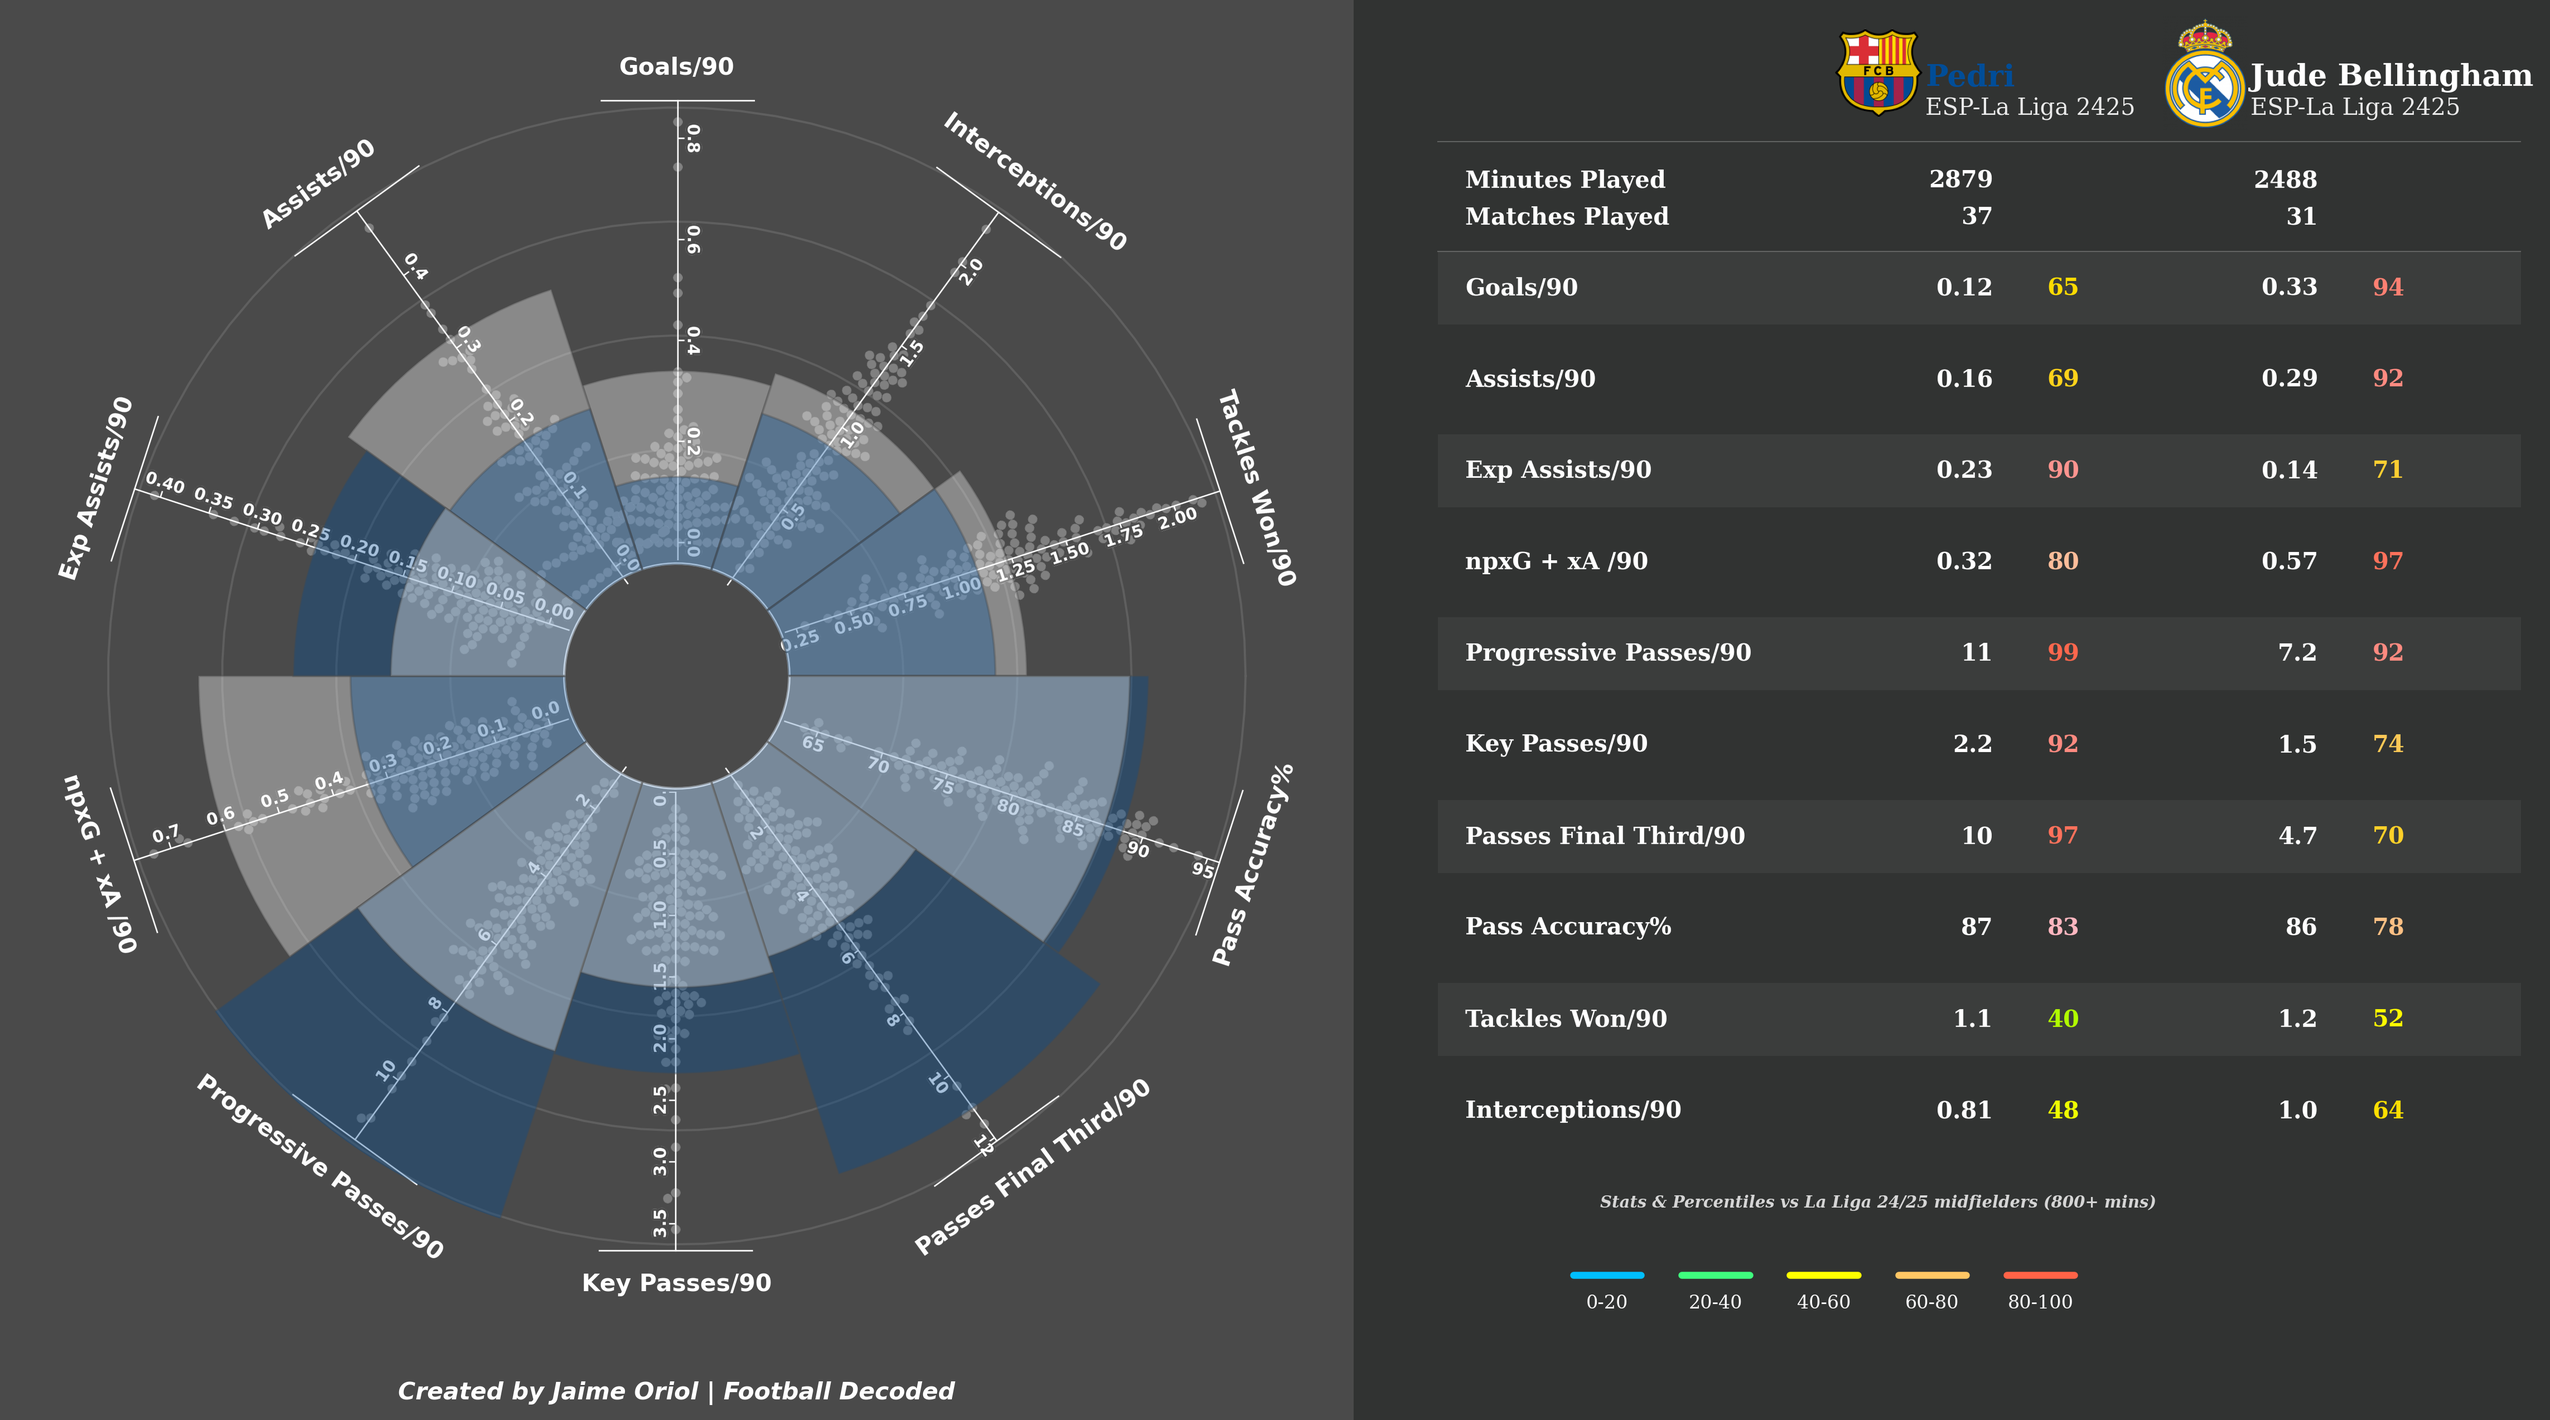
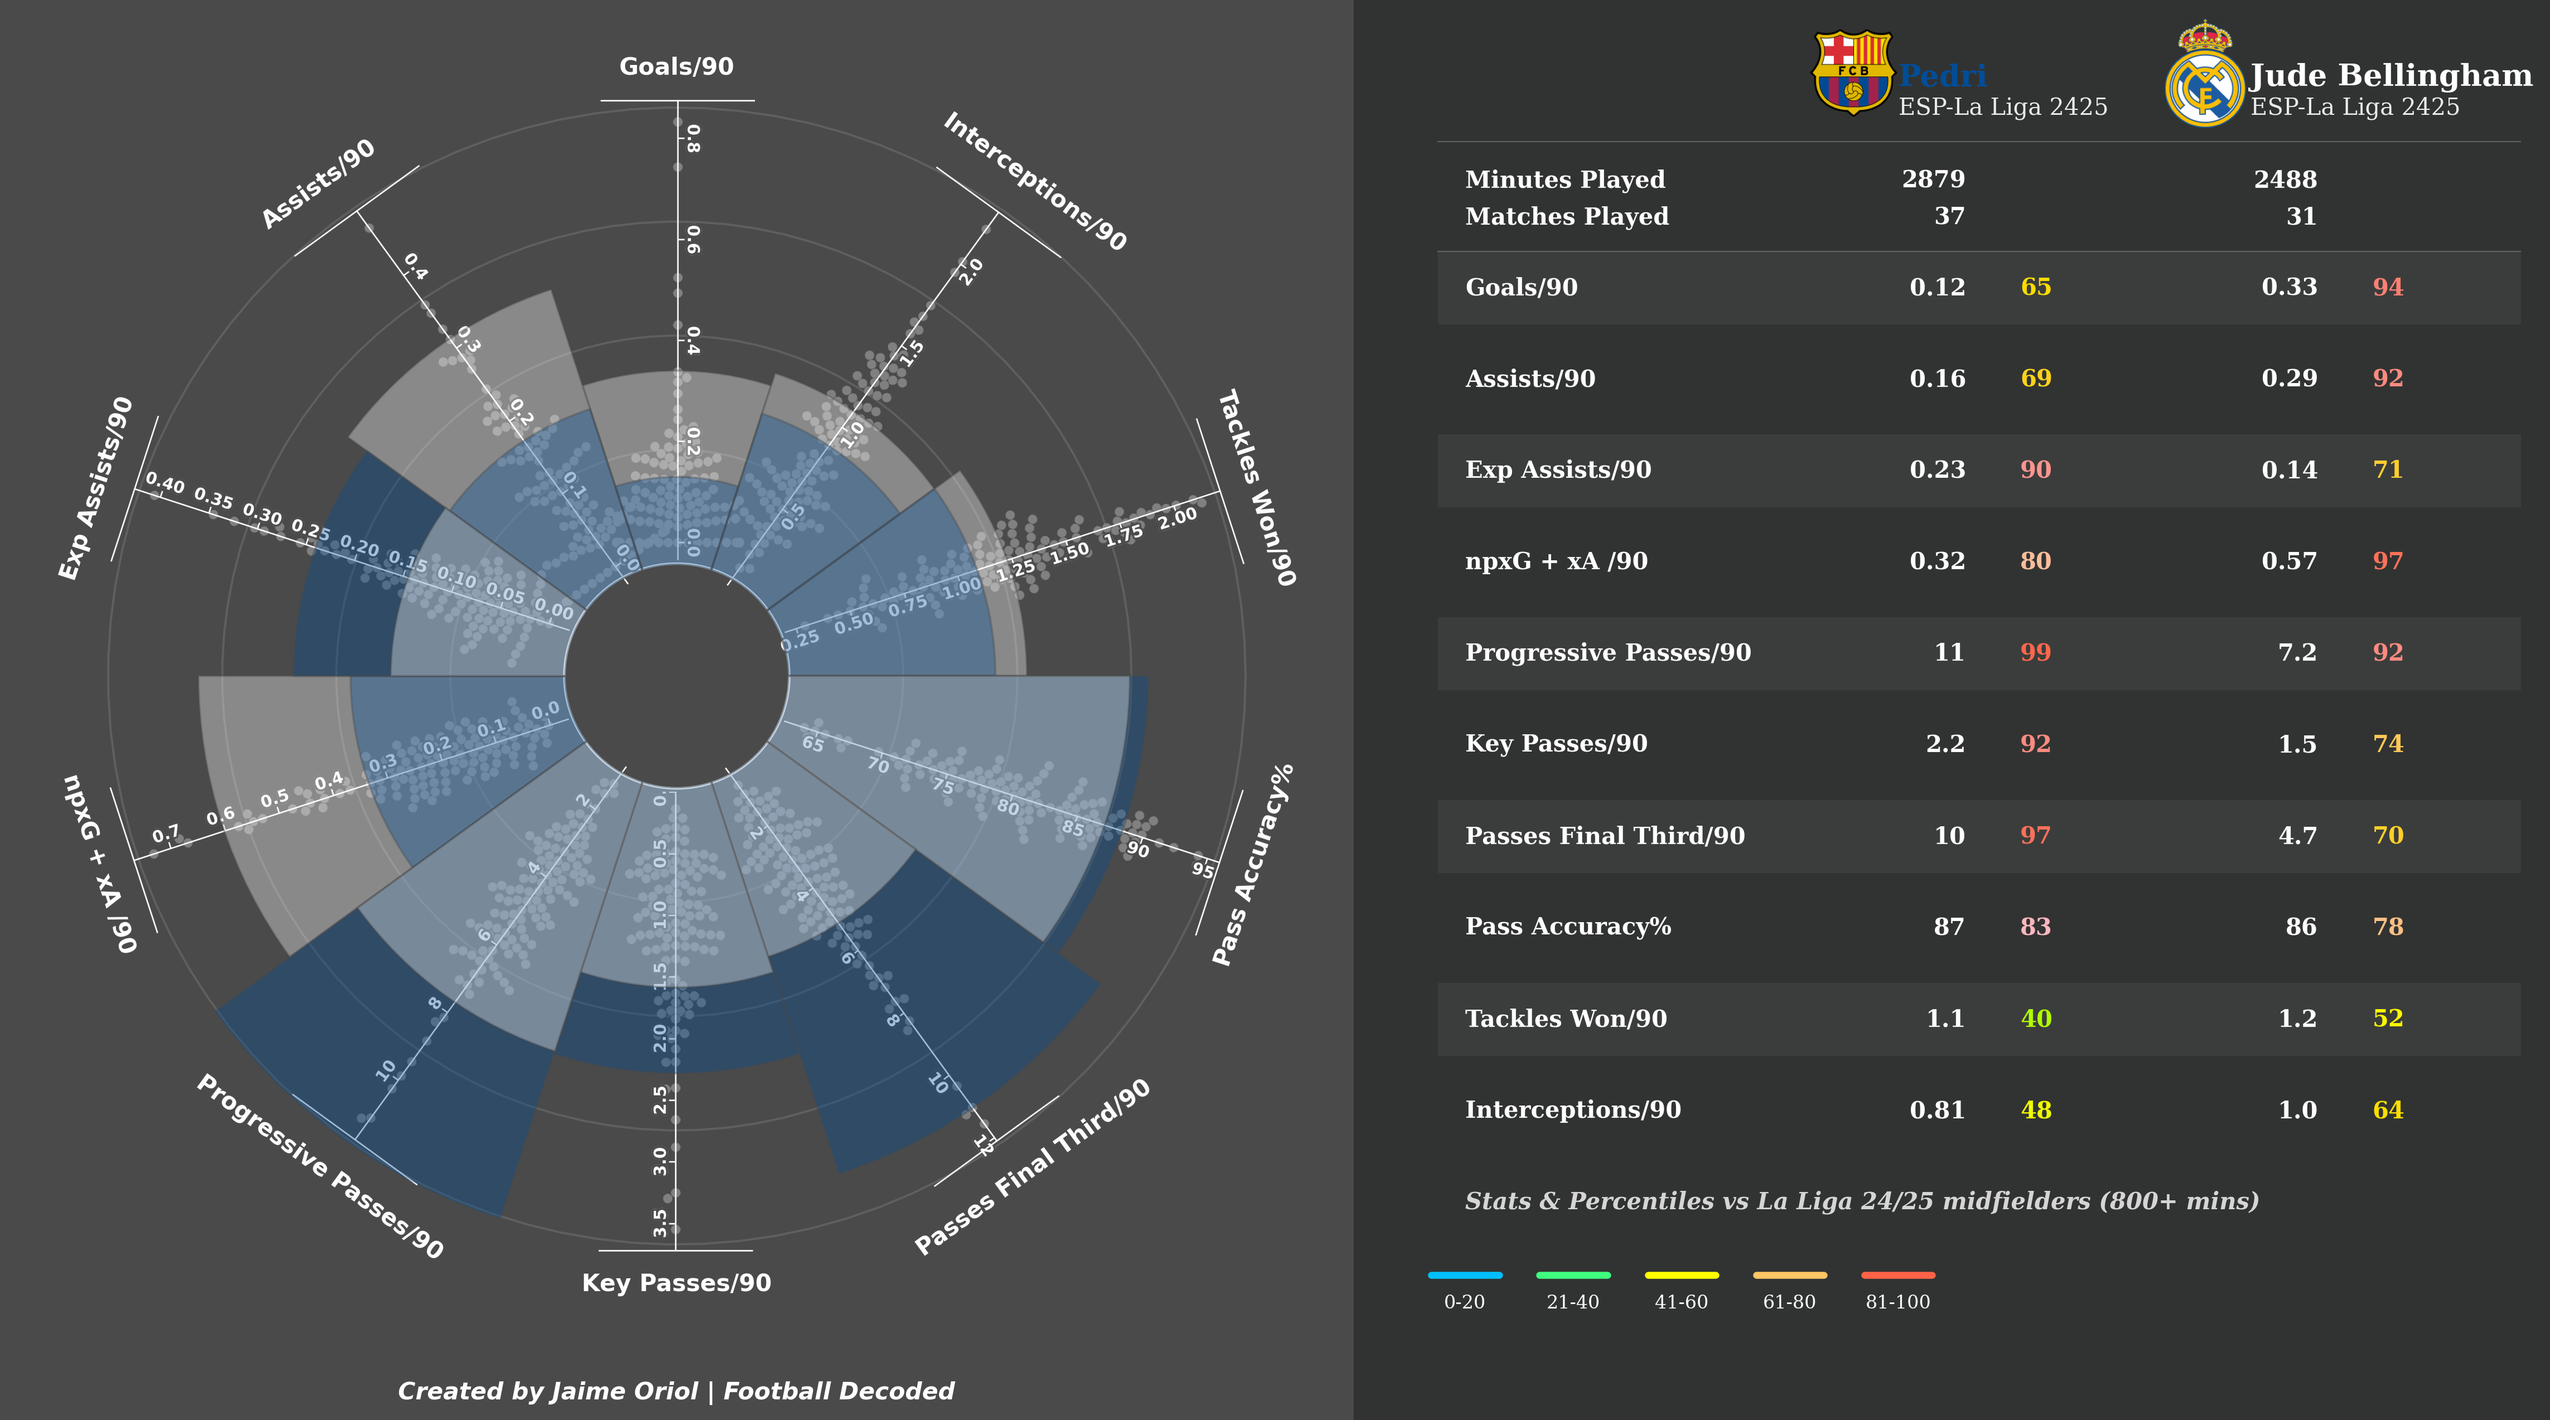
visuals

diff --git a/viz/stats_table.py b/viz/stats_table.py
@@ -9,7 +9,6 @@ from matplotlib.colors import Normalize
 from PIL import Image
 import os
 
-# Color de fondo unificado con pass_network
 BACKGROUND_COLOR = '#313332'
 
 def create_stats_table(df_data, player_1_id, metrics, metric_titles, 
@@ -18,72 +17,43 @@ def create_stats_table(df_data, player_1_id, metrics, metric_titles,
                       team_logos=None, footer_text='Percentiles vs dataset'):
     """
     Crea tabla de estadísticas con estilo visual unificado con pass_network.
-    
-    Args:
-        df_data: DataFrame con los datos de todos los jugadores
-        player_1_id: ID único del primer jugador
-        metrics: Lista de métricas a mostrar
-        metric_titles: Lista de títulos para las métricas
-        player_2_id: ID del segundo jugador (opcional)
-        team_colors: Lista de colores para cada jugador
-        save_path: Ruta donde guardar la imagen
-        show_plot: Si mostrar el gráfico o no
-        team_logos: Diccionario con rutas a logos de equipos
-        footer_text: Texto personalizable para el footer
-    
-    Returns:
-        save_path: Ruta donde se guardó la imagen
     """
     
-    # Colores por defecto si no se especifican
     if team_colors is None:
         team_colors = ['#FF6B6B', '#4ECDC4']
     
-    # Sistema de colores unificado con pass_network
     node_cmap = mcolors.LinearSegmentedColormap.from_list("", [
         'deepskyblue', 'cyan', 'lawngreen', 'yellow', 
         'gold', 'lightpink', 'tomato'
     ])
     percentile_norm = Normalize(vmin=0, vmax=100)
     
-    # Extraer datos de los jugadores
     p1 = df_data[df_data['unique_player_id'] == player_1_id].iloc[0]
     p2 = None
     if player_2_id is not None:
         p2 = df_data[df_data['unique_player_id'] == player_2_id].iloc[0]
     
-    # Configuración de la figura
-    fig_width = 7.5 if p2 is not None else 6.5
-    fig = plt.figure(figsize=(fig_width, 8.5), facecolor=BACKGROUND_COLOR)  # Altura aumentada para leyenda
+    # Layout unificado - siempre usar dimensiones de 2 jugadores
+    fig = plt.figure(figsize=(7.5, 8.5), facecolor=BACKGROUND_COLOR)
     ax = fig.add_subplot(111)
     ax.set_facecolor(BACKGROUND_COLOR)
     ax.set_xlim(0, 8.5)
-    ax.set_ylim(0, 15)  # Límite aumentado para leyenda
+    ax.set_ylim(0, 15)
     ax.axis('off')
     
-    # === SECCIÓN HEADER ===
+    # Posiciones fijas para layout unificado
     y_start = 14.5
+    logo1_x = 3.65  # Movido a la izquierda
+    text1_x = 3.9   # Movido a la izquierda
+    p1_value_x = 4.4  # Movido a la izquierda
+    p1_pct_x = 4.8    # Movido a la izquierda
     
-    # Posiciones X ajustadas para alinear con las columnas de valores
-    if p2 is not None:
-        # Comparación
-        logo1_x = 3.85
-        text1_x = 4.1
-        p1_value_x = 4.6
-        p1_pct_x = 5.0
-        
-        logo2_x = 6.45
-        text2_x = 6.5
-        p2_value_x = 7.0
-        p2_pct_x = 7.4
-    else:
-        # Individual
-        logo1_x = 4.35
-        text1_x = 4.0
-        p1_value_x = 4.6
-        p1_pct_x = 5.0
+    logo2_x = 6.45
+    text2_x = 6.5
+    p2_value_x = 7.0
+    p2_pct_x = 7.4
     
-    # Jugador 1 - Logo
+    # Header Jugador 1
     if team_logos and p1['team'] in team_logos:
         try:
             logo = Image.open(team_logos[p1['team']])
@@ -93,15 +63,13 @@ def create_stats_table(df_data, player_1_id, metrics, metric_titles,
         except:
             pass
     
-    # Nombre y liga
     ax.text(text1_x, y_start, p1['player_name'], 
             fontweight='bold', fontsize=13, color=team_colors[0], ha='left', va='center', family='serif')
     ax.text(text1_x, y_start - 0.4, f"{p1['league']} {p1['season']}", 
             fontsize=10, color='white', alpha=0.9, ha='left', weight='normal', family='serif')
     
-    # Jugador 2 (si existe)
+    # Header Jugador 2 si existe
     if p2 is not None:
-        # Logo del Jugador 2
         if team_logos and p2['team'] in team_logos:
             try:
                 logo = Image.open(team_logos[p2['team']])
@@ -118,14 +86,11 @@ def create_stats_table(df_data, player_1_id, metrics, metric_titles,
     
     # Línea separadora header
     y_line = y_start - 0.7
-    line_end = 8.5 if p2 is not None else 6.5
-    ax.plot([0.5, line_end], [y_line, y_line], 
-            color='grey', linewidth=0.5, alpha=0.6)
+    ax.plot([0.5, 8.5], [y_line, y_line], color='grey', linewidth=0.5, alpha=0.6)
     
-    # === SECCIÓN CONTEXTO (Minutos y Partidos) ===
+    # Contexto (Minutos y Partidos)
     y_context = y_start - 1.2
     
-    # Minutes
     ax.text(0.7, y_context, "Minutes Played", fontsize=10, color='white', weight='bold', family='serif')
     min1 = int(p1.get('minutes_played', 0))
     ax.text(p1_value_x, y_context, f"{min1}", fontsize=10, color='white', ha='right', weight='bold', family='serif')
@@ -133,7 +98,6 @@ def create_stats_table(df_data, player_1_id, metrics, metric_titles,
         min2 = int(p2.get('minutes_played', 0))
         ax.text(p2_value_x, y_context, f"{min2}", fontsize=10, color='white', ha='right', weight='bold', family='serif')
     
-    # Matches
     y_context -= 0.4
     ax.text(0.7, y_context, "Matches Played", fontsize=10, color='white', weight='bold', family='serif')
     mat1 = int(p1.get('matches_played', 0))
@@ -142,41 +106,31 @@ def create_stats_table(df_data, player_1_id, metrics, metric_titles,
         mat2 = int(p2.get('matches_played', 0))
         ax.text(p2_value_x, y_context, f"{mat2}", fontsize=10, color='white', ha='right', weight='bold', family='serif')
     
-    # Línea separadora contexto
     y_line = y_context - 0.3
-    ax.plot([0.5, line_end], [y_line, y_line], 
-            color='grey', linewidth=0.5, alpha=0.6)
+    ax.plot([0.5, 8.5], [y_line, y_line], color='grey', linewidth=0.5, alpha=0.6)
     
-    # === SECCIÓN MÉTRICAS ===
+    # Métricas
     y_metrics = y_context - 0.7
     row_height = 1.0
     
-    # Iterar sobre cada métrica
     for idx, (metric, title) in enumerate(zip(metrics, metric_titles)):
         y_pos = y_metrics - (idx * row_height)
         
-        # Fondo alternado para mejor legibilidad
         if idx % 2 == 0:
-            rect_width = 8.5 if p2 is not None else 6.5
-            rect = Rectangle((0.5, y_pos - 0.4), 
-                           rect_width, 0.8, 
-                           facecolor='white', alpha=0.05)
+            rect = Rectangle((0.5, y_pos - 0.4), 8.0, 0.8, facecolor='white', alpha=0.05)
             ax.add_patch(rect)
         
-        # Título de la métrica
         clean_title = title.replace('\n', ' ')
         ax.text(0.7, y_pos, clean_title, fontsize=10, color='white', weight='bold', va='center', family='serif')
         
-        # === JUGADOR 1: Valor y Percentil ===
+        # Jugador 1
         val_1 = p1.get(metric, 0)
         pct_col = f"{metric}_pct"
         pct_1 = p1.get(pct_col, 0)
         
-        # Manejar valores NaN
         if pd.isna(pct_1):
             pct_1 = 0
         
-        # Formatear valor según su magnitud
         if pd.isna(val_1):
             val_str_1 = "0.0"
         elif 0 < val_1 < 1:
@@ -186,25 +140,21 @@ def create_stats_table(df_data, player_1_id, metrics, metric_titles,
         else:
             val_str_1 = f"{int(val_1)}"
         
-        # Color del percentil usando la escala xT
         pct_color_1 = node_cmap(percentile_norm(pct_1))
         
-        # Mostrar valor y percentil
         ax.text(p1_value_x, y_pos, val_str_1, fontsize=10, color='white', ha='right', 
                 weight='bold', va='center', family='serif')
         ax.text(p1_pct_x, y_pos, f"{int(pct_1)}", 
                 fontsize=10, color=pct_color_1, ha='left', fontweight='bold', va='center', family='serif')
         
-        # === JUGADOR 2: Valor y Percentil (si existe) ===
+        # Jugador 2 si existe
         if p2 is not None:
             val_2 = p2.get(metric, 0)
             pct_2 = p2.get(pct_col, 0)
             
-            # Manejar valores NaN
             if pd.isna(pct_2):
                 pct_2 = 0
             
-            # Formatear valor según su magnitud
             if pd.isna(val_2):
                 val_str_2 = "0.0"
             elif 0 < val_2 < 1:
@@ -214,59 +164,40 @@ def create_stats_table(df_data, player_1_id, metrics, metric_titles,
             else:
                 val_str_2 = f"{int(val_2)}"
             
-            # Color del percentil usando la escala xT
             pct_color_2 = node_cmap(percentile_norm(pct_2))
             
-            # Mostrar valor y percentil
             ax.text(p2_value_x, y_pos, val_str_2, fontsize=10, color='white', ha='right', 
                     weight='bold', va='center', family='serif')
             ax.text(p2_pct_x, y_pos, f"{int(pct_2)}", 
                     fontsize=10, color=pct_color_2, ha='left', fontweight='bold', va='center', family='serif')
     
-    # === FOOTER ===
+    # Footer alineado con títulos de métricas
     footer_y = y_metrics - (len(metrics) * row_height)
-    footer_x = 3.75 if p2 is not None else 3.25
     
-    # Fondo para el footer si corresponde
     if len(metrics) % 2 == 1:
-        rect_width = 8.5 if p2 is not None else 6.5
-        rect = Rectangle((0.5, footer_y - 0.4), 
-                       rect_width, 0.8, 
-                       facecolor='white', alpha=0.05)
+        rect = Rectangle((0.5, footer_y - 0.4), 8.0, 0.8, facecolor='white', alpha=0.05)
         ax.add_patch(rect)
     
-    # Footer centrado en la tabla
-    ax.text(footer_x, footer_y, footer_text, 
-            fontsize=10, color='white', alpha=0.8, ha='center', style='italic', weight='bold', va='center', family='serif')
+    ax.text(0.7, footer_y, footer_text, 
+            fontsize=10, color='white', alpha=0.8, ha='left', style='italic', weight='bold', va='center', family='serif')
     
-    # === LEYENDA DE PERCENTILES ===
+    # Leyenda de percentiles alineada con títulos
     legend_y = footer_y - 0.8
-    legend_x_center = footer_x
     
-    # Definir intervalos y sus colores
     intervals = [(0, 20), (21, 40), (41, 60), (61, 80), (81, 100)]
-    interval_colors = [node_cmap(percentile_norm(i*25)) for i in range(5)]  # 0, 25, 50, 75, 100
+    interval_colors = [node_cmap(percentile_norm(i*25)) for i in range(5)]
     
-    # Espaciado entre elementos de leyenda
-    total_width = 4.0
-    spacing = total_width / len(intervals)
-    start_x = legend_x_center - total_width/2
+    spacing = 0.8
     
     for i, ((low, high), color) in enumerate(zip(intervals, interval_colors)):
-        x_pos = start_x + i * spacing
+        x_pos = 0.7 + i * spacing
         
-        # Línea horizontal representando el intervalo
-        line_width = 0.7
-        line_length = 0.5
-        ax.plot([x_pos - line_length/2, x_pos + line_length/2], 
-                [legend_y, legend_y], 
+        ax.plot([x_pos - 0.25, x_pos + 0.25], [legend_y, legend_y], 
                 color=color, linewidth=3, solid_capstyle='round')
         
-        # Texto del intervalo
         ax.text(x_pos, legend_y - 0.3, f"{low}-{high}", 
                 fontsize=8, color='white', ha='center', va='center', family='serif')
     
-    # Guardar figura
     plt.tight_layout()
     plt.savefig(save_path, dpi=300, bbox_inches='tight', facecolor=BACKGROUND_COLOR)
     
@@ -280,35 +211,22 @@ def create_stats_table(df_data, player_1_id, metrics, metric_titles,
 def combine_radar_and_table(radar_path, table_path, output_path='combined_visualization.png'):
     """
     Combina radar y tabla horizontalmente manteniendo proporciones.
-    
-    Args:
-        radar_path: Ruta a la imagen del radar
-        table_path: Ruta a la imagen de la tabla
-        output_path: Ruta donde guardar la imagen combinada
-    
-    Returns:
-        output_path: Ruta donde se guardó la imagen combinada
     """
     
-    # Abrir ambas imágenes
     radar_img = Image.open(radar_path)
     table_img = Image.open(table_path)
     
-    # Obtener dimensiones
     r_w, r_h = radar_img.size
     t_w, t_h = table_img.size
     
-    # Escalar tabla para que tenga la misma altura que el radar
     scale = r_h / t_h
     new_t_w = int(t_w * scale)
     table_resized = table_img.resize((new_t_w, r_h), Image.Resampling.LANCZOS)
     
-    # Crear imagen combinada con el color de fondo actualizado
     combined = Image.new('RGB', (r_w + new_t_w, r_h), color=BACKGROUND_COLOR)
     combined.paste(radar_img, (0, 0))
     combined.paste(table_resized, (r_w, 0))
     
-    # Guardar imagen combinada
     combined.save(output_path, dpi=(300, 300))
     
     return output_path
